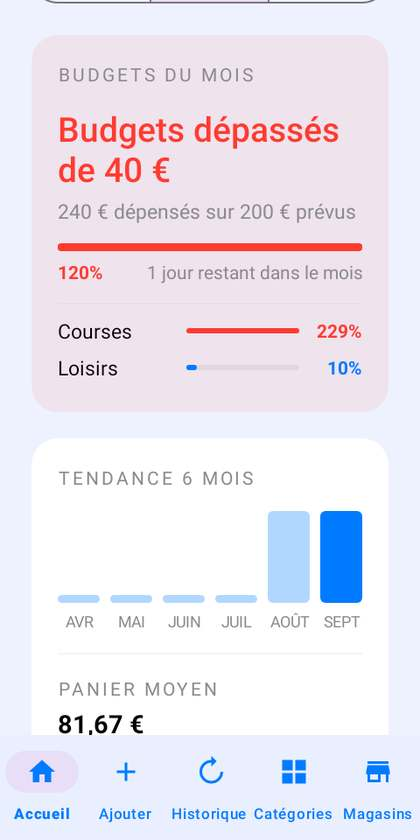
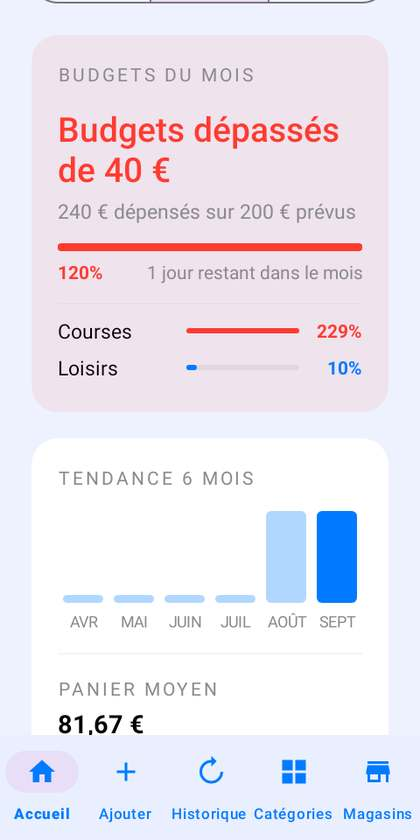
docs(lot 8): compatibilité Android (java.time, lint NewApi), « Budget atteint », Tendance 6 mois, validation émulateur, aperçus

diff --git a/docs/COMPATIBILITE_ANDROID.md b/docs/COMPATIBILITE_ANDROID.md
@@ -1,0 +1,81 @@
+# Compatibilité Android (minSdk 21)
+
+Application : minSdk 21 (Android 5.0), targetSdk 34, Java/Kotlin 17.
+
+## 1. java.time dans le lecteur de dates OCR (lot 8, durcissement)
+
+### Constat
+
+- `OCRDateExtractor` (appelé par `OCRProcessor.process`) utilise `java.time` : `LocalDate`,
+  `DateTimeFormatter`, `ZoneId` — disponibles sur Android seulement à partir de l'API 26 (8.0).
+- Configuration effective avant correction : aucun désucrage (`isCoreLibraryDesugaringEnabled`
+  absent de `app/build.gradle.kts`), minSdk 21. Lint NewApi : 8 alertes, toutes dans ce fichier.
+- Exécution réelle sur émulateur **avant correction** (commit `21adde7`, run 36722937007,
+  test `E2eCompatDatesOcrTest`) :
+  - API 21 (Android 5.0.2) : **11 cas sur 11 en erreur**
+    `java.lang.NoClassDefFoundError: Failed resolution of: Ljava/time/format/DateTimeFormatter;`
+    (y compris le traitement OCR complet `OCRProcessor.process`). L'erreur n'est pas rattrapée par
+    le `catch (Exception)` du lecteur : dans l'app, elle ferait planter l'écran appelant.
+  - API 34 et API 36 : 11 cas sur 11 conformes, traitement complet conforme.
+- API 22 à 25 : non exécutées (pas d'émulateur dans la CI) ; `java.time` y est également absent
+  (API 26 minimum), même défaut attendu, corrigé de la même façon.
+
+### Portée pour l'utilisateur
+
+Le chemin n'est **pas atteignable dans l'app actuelle** : le scanner OCR est désactivé et
+`OCRPreviewFragment` n'est déclaré que dans `nav_graph.xml`, utilisé par des activités absentes du
+manifeste. Le défaut était latent ; il se serait déclenché sur Android 5 à 7.1 dès l'activation
+du scanner. Le scanner reste désactivé ; les décisions Q1 à Q4 restent ouvertes.
+
+### Options essayées
+
+| Option | Résultat | Décision |
+|---|---|---|
+| Désucrage de la bibliothèque Java (`coreLibraryDesugaring`, `desugar_jdk_libs` 2.0.4) — commits `50e1558`, `b3a7fa7` | Lecteur de dates correct sur API 21 (11/11), **mais plantages natifs de l'app sur Android 5.0.2** : `SIGSEGV` (`fault addr 0x28`) dans le code compilé de l'app (`base.apk@classes.dex`, même adresse `pc 00645c34` à chaque fois), pendant 5 classes de test (parcours, budget avant mise à jour, persistance, historique, catégories) — runs 36724140825 et 36725178848. Aucun plantage de ce type avant ce changement (run 36722937007 : 26 réussis, seuls les 2 tests de dates en échec). Cause exacte dans ART 5.0 non établie | **Écartée** (retirée au commit `3129344`) |
+| Réécriture sans `java.time`, règles reproduites à l'identique | Voir ci-dessous | **Retenue** |
+
+### Correction retenue : lecteur de dates sans java.time (commit `3129344`)
+
+`OCRDateExtractor` n'utilise plus que `String`, `Regex` et `java.util.TimeZone`. Les règles
+d'origine (celles de `LocalDate.parse` + `DateTimeFormatter.ofPattern` en mode par défaut) sont
+reproduites à l'identique : mêmes motifs et même ordre, jour et mois sur 2 chiffres, « yyyy » avec
+4 chiffres (plus de 4 seulement précédés de « + »), « yy » = 2000 à 2099, jours hors mois ramenés au
+dernier jour (31/04 → 30/04, 29/02/2025 → 28/02), même repli par expression régulière, première
+ligne datée retenue, début du jour dans le fuseau de l'appareil.
+
+Équivalence vérifiée sur la JVM contre l'implémentation d'origine, conservée en test
+(`OCRDateExtractorJavaTimeReference`) — `OCRDateExtractorEquivalenceTest` :
+
+- lecture : ~40 000 entrées construites (formats, séparateurs, bornes, signes, préfixes, suffixes)
+  et 40 000 entrées aléatoires : résultats identiques ;
+- début du jour : chaque date du 01/01/1901 au 31/12/2086 dans 11 fuseaux, dont des fuseaux qui
+  changent d'heure à minuit (Sao Paulo, Santiago, La Havane, Beyrouth) et Apia (jour sauté en
+  2011) : résultats identiques.
+
+Différences connues (hors usage réel d'un ticket) :
+
+- année au-delà de ~292 millions précédée de « + » (« 12/01/+300000000 ») : java.time levait
+  `ArithmeticException` (plantage) ; la ligne est désormais ignorée ;
+- dates avant 1901 ou après 2086 : le jour lu est identique, mais l'instant de début du jour peut
+  différer (heure locale historique, règles futures) car la table des fuseaux de
+  `java.util.TimeZone` n'est pas celle de `java.time`.
+
+## 2. Contrôle lint NewApi bloquant
+
+Étape CI « Lint NewApi (bloquant) » (job `build`) :
+
+- échoue si `lintDebug` signale une alerte `NewApi` ou `InlinedApi` absente de la baseline ;
+- échoue si la baseline contient une entrée `NewApi` / `InlinedApi` autre que les exceptions
+  ci-dessous (pas de mise en baseline silencieuse) ;
+- échoue si le rapport lint est absent (compatibilité non vérifiée) ;
+- les autres catégories lint restent en rapport, comme avant (aucun masquage global).
+
+### Exceptions existantes (baseline, inchangées)
+
+| Règle | Fichier | Attribut | Effet sur API < niveau requis | Justification |
+|---|---|---|---|---|
+| NewApi | `src/main/res/values/themes.xml` | `android:windowLightStatusBar` (API 23) | Attribut de thème ignoré par Android 5.x : icônes de la barre d'état non assombries | Pas de plantage (app lancée et testée sur API 21) ; rendu de la barre d'état sur Android 5.x à vérifier visuellement |
+| NewApi | `src/main/res/values/themes.xml` | `android:windowLightNavigationBar` (API 27) | Ignoré avant Android 8.1 : icônes de navigation non assombries | Idem |
+
+Une correction propre (`values-v23` / `values-v27`) est possible mais modifie le thème : non faite
+sans validation.

diff --git a/docs/BUDGETS.md b/docs/BUDGETS.md
@@ -62,7 +62,7 @@ Référence iOS : `BudgetSummaryEngine.swift`, `BudgetSummaryCardView.swift`, `H
 | Toujours calculée sur le mois courant [1er 00:00, 1er du mois suivant[ | Identique (`BudgetSummaryEngine.compute`) |
 | Total des budgets = somme des budgets, **chaque clé une fois** ; dépenses = catégories budgétées seulement, cumulées par clé (casse ignorée), catégories vides ignorées | Identique (réutilise `BudgetRules.totals`) |
 | États globaux et par ligne : < 50 % confortable (bleu), 50–80 % attention (orange), 80–100 % critique (rouge), ≥ 100 % dépassé (rouge) | Identique |
-| Titre « Il te reste X » ; en dépassement « Budgets dépassés de X » (rouge) ; « X dépensés sur Y prévus » | Identique |
+| Titre « Il te reste X » ; en dépassement « Budgets dépassés de X » (rouge) ; « X dépensés sur Y prévus » | Identique, sauf à 100 % pile : « Budget atteint » (écart B3) |
 | Pourcentage `Int(ratio × 100)` (troncature : 99,9 % → 99%) | Identique |
 | « N jours restants dans le mois » (du début d'aujourd'hui au 1er du mois suivant : dernier jour = 1) | Identique |
 | 3 lignes max triées par ratio décroissant, « et N autres → » | Identique (égalité départagée par le nom, iOS indéterministe) |
@@ -76,7 +76,7 @@ Référence iOS : `BudgetSummaryEngine.swift`, `BudgetSummaryCardView.swift`, `H
 |---|---|---|
 | B1 | iOS choisit UNE carte contextuelle : Budget si action nécessaire, sinon carte Magasin (StoreIntelligence), sinon Budget informatif ; carte masquée si elle répète l'insight « budget dépassé » | Android n'a ni insights ni carte Magasin : la carte Budget s'affiche dès qu'un budget existe (« Ce mois »). À revoir si ces cartes sont portées |
 | B2 | Montants iOS arrondis à l'euro (« %.0f € ») | Montants exacts si décimales (« 12,50 € »), comme au lot 7 (A1) |
-| B3 | À 100 % pile, iOS affiche « Budgets dépassés de 0 € » | Reproduit (test figé) ; libellé à décider |
+| B3 | À 100 % pile, iOS affiche « Budgets dépassés de 0 € » | **Écart volontaire (demande produit)** : « Budget atteint » quand les dépenses égalent le budget au centime près ; « Budgets dépassés de X » seulement si elles le dépassent réellement (≥ 1 centime). L'état n'est pas modifié : à 100 % la carte reste rouge et l'Accueil « tendu », comme sur iOS. Tests : `BudgetSummaryEngineTest.textes_de_la_carte` (100 %, 0,1 + 0,2 = 0,3, ±1 centime), `Lot8ScreenshotTest.budget_atteint_light` |
 | B4 | L'état « tendu » dépend du total global : une catégorie à 125 % ne rend pas l'Accueil « tendu » si le global reste < 80 % | Reproduit (règle iOS) |
 | B5 | « et N autres → » n'est pas cliquable sur iOS | Identique (non cliquable) |
 | B6 | Animations d'entrée de l'Accueil iOS | Non portées |

diff --git a/docs/VALIDATION_EMULATEUR.md b/docs/VALIDATION_EMULATEUR.md
@@ -64,6 +64,37 @@ Défauts trouvés sur émulateur / aperçus et corrigés :
 Changement de mois : vérifié en JVM seulement (horloge de l'émulateur non modifiée).
 Aperçus : `docs/preview/lot8/` (Robolectric) et `docs/preview/lot8-emulateur/`.
 
+## Lot 8 — durcissement (compatibilité, « Budget atteint », Tendance 6 mois)
+
+Commit de code testé : **`3129344`** — run https://github.com/Nourdine84/eTix/actions/runs/36725776665.
+
+| Niveau | Résultat |
+|---|---|
+| JVM + Robolectric | **160 réussis, 0 échec, 10 désactivés** (dont équivalence stricte du lecteur de dates avec java.time, « Budget atteint », libellés de la Tendance à 360 dp / 320 dp, police 1,0 / 1,3 / 2,0) |
+| Lint NewApi (désormais **bloquant**) | aucune nouvelle incompatibilité ; 2 exceptions documentées (`docs/COMPATIBILITE_ANDROID.md`) |
+| Émulateur API 36 / 34 / 21 | **29/29** chacun, dont lecteur de dates OCR sur l'appareil (11 cas + traitement complet) et Tendance 6 mois |
+| Émulateur API 34 fr-FR | **6/6** |
+| Émulateur API 36 petit écran | **15/15** (Tendance : libellés entiers à 360 dp police 1,3 et 2,0, 320 dp police 1,3) |
+| Mise à jour A → B | API 21, 34, 36 : versionCode 10 → 11 sans désinstallation, données conservées |
+| Plantages | aucun |
+
+Compatibilité java.time, exécutions réelles :
+
+| Commit | Configuration | API 21 | API 34 / 36 |
+|---|---|---|---|
+| `21adde7` (run 36722937007) | code d'origine, sans désucrage | **11/11 cas en `NoClassDefFoundError`** (DateTimeFormatter), traitement OCR complet idem | 11/11 conformes |
+| `50e1558` / `b3a7fa7` (runs 36724140825, 36725178848) | désucrage `desugar_jdk_libs` 2.0.4 | dates conformes, mais **plantages natifs `SIGSEGV`** de l'app pendant 5 classes de test | conformes |
+| `3129344` (run 36725776665) | lecteur sans java.time, désucrage retiré | **11/11 conformes, 29/29 tests, aucun plantage** | conformes |
+
+Les jobs émulateur échouent désormais si un test échoue, si aucun résultat n'est produit ou en cas de plantage
+(étape « Verdict tests émulateur ») ; auparavant ils restaient verts et seules les annotations signalaient les échecs.
+
+Mesures Tendance 6 mois (largeur du libellé / largeur disponible, taille par rapport à la taille prévue) :
+360 dp police 2,0 → libellés iOS entiers réduits à 94 % ; 320 dp police 1,3 → entiers à 100 %.
+Robolectric 320 dp police 2,0 → repli sur 3 lettres (« JUN », « JUL », « AOÛ », « SEP »), non atteint sur émulateur.
+
+Aperçus : `docs/preview/lot8/l8_09_atteint_*`, `l8_10` à `l8_12` (Robolectric), `docs/preview/lot8-emulateur/*tendance*`.
+
 ## Incident CI après fusion de la PR #75 (30/09/2026)
 
 Run 36695648030 (commit de fusion `8c1af76` sur `feature/android-v2`), tentative 1 : le job `emulator-api34-fr`

diff --git a/docs/SUIVI_ANDROID.md b/docs/SUIVI_ANDROID.md
@@ -189,11 +189,21 @@ CI : `.github/workflows/android-ci.yml` (push sur `dev`, `feature/**`, `fix/**`,
   3 lignes max + « et N autres ». Chaque budget compté une fois, dépenses cumulées par clé (casse ignorée).
 - « Budget tendu » (global critique ou dépassé) → phrase « Ton rythme de dépenses augmente » (règle iOS).
 - **Plantage Android 5 et 6 trouvé sur émulateur et corrigé** (`HashMap.putIfAbsent`, API 24). CI : rapport lint NewApi
-  non bloquant ajouté ; il signale aussi `OCRDateExtractor` (java.time, API 26), existant, non atteignable tant que le
-  scan n'est pas branché — **plantera sur Android 5 à 7 le jour où l'OCR sera branché** (à corriger avant).
+  non bloquant ajouté ; il signalait aussi `OCRDateExtractor` (java.time, API 26) — corrigé au durcissement ci-dessous.
 - Écarts / ambiguïtés B1–B6 : `docs/BUDGETS.md` (pas de carte Magasin ni d'insights, montants exacts, « dépassés de 0 € »
   au seuil 100 %, état tendu global, animations).
 - Lecture seule ; tickets, catégories et budgets inchangés (vérifié). Version `1.8.0-lot8` (versionCode 9).
+- **Durcissement** (version `1.8.1-lot8`, versionCode 10) :
+  - java.time : plantage **confirmé sur émulateur API 21** (`NoClassDefFoundError`) ; le désucrage a provoqué des
+    plantages natifs sur Android 5.0 → écarté ; lecteur réécrit sans java.time, équivalence stricte vérifiée contre
+    l'implémentation d'origine (JVM) et exécution sur API 21 / 34 / 36. Scanner toujours désactivé, Q1–Q4 ouvertes.
+    Détail : `docs/COMPATIBILITE_ANDROID.md`.
+  - Lint NewApi **bloquant** pour toute nouvelle incompatibilité ; 2 exceptions existantes documentées.
+  - Jobs émulateur en échec si un test échoue (avant : verts malgré les échecs).
+  - « Budget atteint » à 100 % pile (écart iOS B3 documenté) ; « Budgets dépassés de X » seulement en dépassement réel.
+  - Tendance 6 mois : libellés entiers sur petit écran et grande police (réduction ≤ 20 %, sinon 3 lettres),
+    zone du graphique agrandie au lieu de couper, libellé accessible complet (« septembre 2026 : 55,00 € »).
+  - PR brouillon vers `feature/android-v2` (non fusionnée).
 
 ## Écarts restants avec iOS (référence `feature/home-hero-v2`)
 
